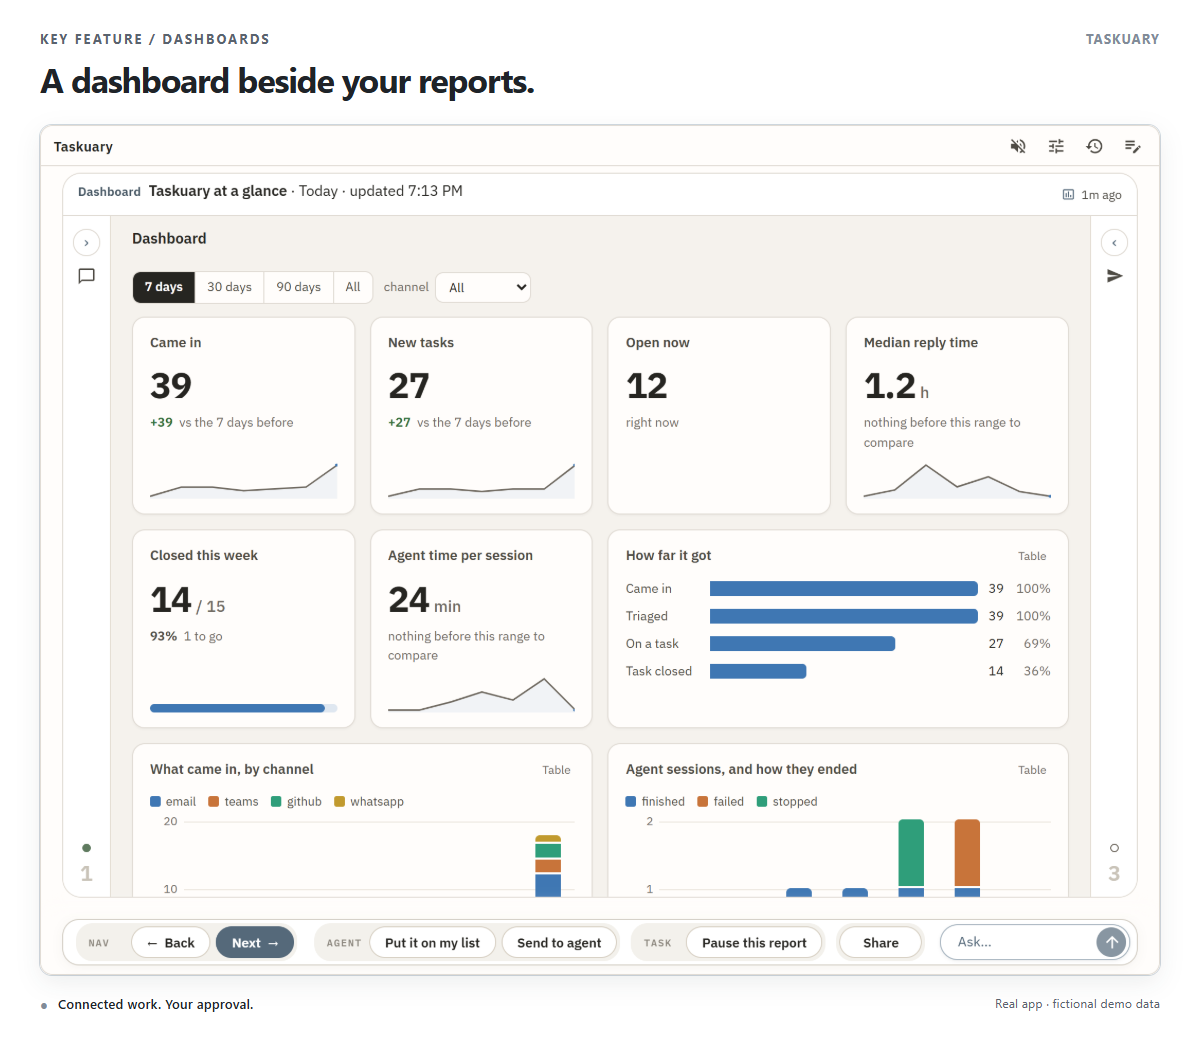
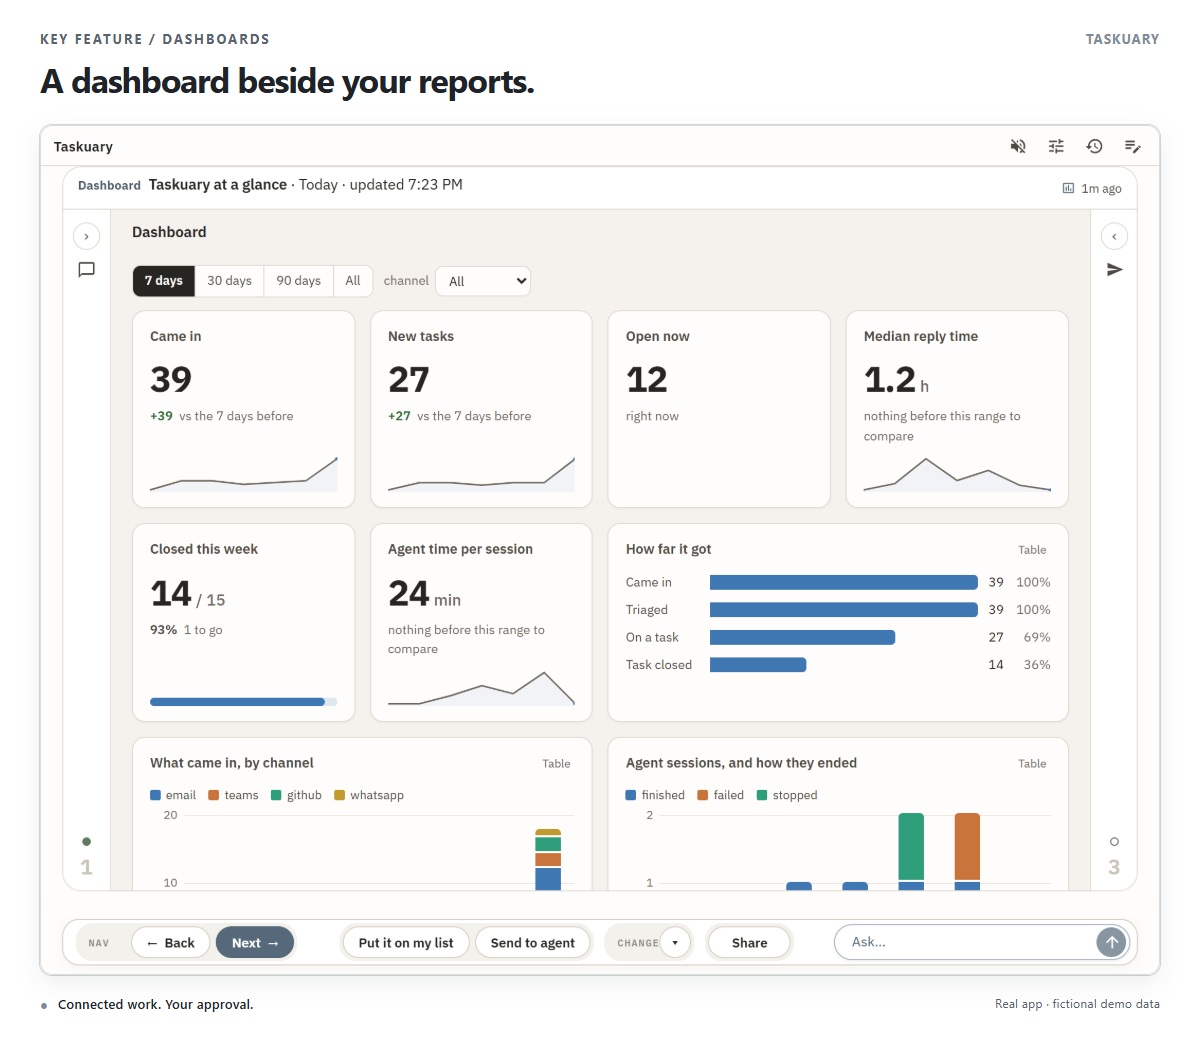
The README's task pictures show the three-pill row and the chat box that stays in the bar
Re-shot on master's new dock row: Nav, one move pill with Mark done first, Change, Share - no REPLY,
AGENT or CLOSE labels - and the chat window rising out of the box at the row's end. 02-05 and 12-14 are
the row; 01, 07 and 11 are re-shot from the same build. Section 2 names the new row in both READMEs, and
every picture's cache-buster moves to ?v=row.

diff --git a/README.md b/README.md
@@ -42,17 +42,18 @@ one card: what changed since last night, what was learned, the morning digest, y
 what waits in each section - so you never open each system in turn. A goal is a task whose steps
 are tasks: triage opens one for an open-ended ask, and files later mail under the step it serves.
 
-![The work rail sorting today's items into Tasks, Reports, and FYI, beside the opening card: agents that finished and a report that ran since last night, the memory and morning digest lines, today's meetings, and what waits in each section.](https://raw.githubusercontent.com/ldbumble/taskuary/master/docs/readme/01-timeline-sources-and-times.png?v=sections)
+![The work rail sorting today's items into Tasks, Reports, and FYI, beside the opening card: agents that finished and a report that ran since last night, the memory and morning digest lines, today's meetings, and what waits in each section.](https://raw.githubusercontent.com/ldbumble/taskuary/master/docs/readme/01-timeline-sources-and-times.png?v=row)
 
 ### 2. Let the Assistant walk you through it
 
 Choose **Walk me through my tasks**. The Assistant puts one item on the table at a time, as the
-same task card you would open yourself, with the next actions in one row under it: **Next**, **Reply**,
-**Hand it to a person**, and the rest under ▾. The buttons always do the same thing; for everything else,
-ask - the chat opens as a window over the row, and the Assistant already has the message, the thread,
-and your past decisions to answer from.
+same task card you would open yourself, with one row under it: **Back** and **Next**, the move it is up
+to (**Mark done** first, then **Reply** or **Send to agent**), **Change ▾**, and **Share**. The buttons always do
+the same thing; for everything else, ask in the chat box at the end of the row - the conversation rises
+out of it as a window, and the Assistant already has the message, the thread, and your past decisions to
+answer from.
 
-![Ruth's request on the table with the chat window open over the action row: asked what is on the list, the Assistant answers beside the task without moving it.](https://raw.githubusercontent.com/ldbumble/taskuary/master/docs/readme/05-assistant.png?v=sections)
+![Ruth's request on the table with the chat window risen out of the chat box at the end of the row: asked what is on the list, the Assistant answers beside the task without moving it.](https://raw.githubusercontent.com/ldbumble/taskuary/master/docs/readme/05-assistant.png?v=row)
 
 Assistant look-ups clamp result limits to a safe range and use their default when a limit is invalid.
 
@@ -62,7 +63,7 @@ Every task reads left to right in three sections: **Came from** (the message, wh
 and why, the ask), **Agent**, and **Close out**. The section the task is up to opens; the other two fold
 to slim columns beside it that still say where they stand.
 
-![Ruth's request as a task in three sections: Came from open - the email, what triage made of it, the ask - with Agent (not started) and Close out (not drafted yet) folded beside it.](https://raw.githubusercontent.com/ldbumble/taskuary/master/docs/readme/02-task.png?v=sections)
+![Ruth's request as a task in three sections: Came from open - the email, what triage made of it, the ask - with Agent (not started) and Close out (not drafted yet) folded beside it.](https://raw.githubusercontent.com/ldbumble/taskuary/master/docs/readme/02-task.png?v=row)
 
 ### 4. The agent shows what it did
 
@@ -71,14 +72,14 @@ Result: what it did, its answer, what it found, and **What it made** - each file
 The whole conversation is one link under it. Here the agent prepares the numbers, checks that the
 categories add up, saves a workbook, and drafts the reply. Nothing is sent.
 
-![The agent's Result on Ruth's task: a one-line summary, the July and August totals by category, what it found, and the workbook it made with Open and Download.](https://raw.githubusercontent.com/ldbumble/taskuary/master/docs/readme/03-agent.png?v=sections)
+![The agent's Result on Ruth's task: a one-line summary, the July and August totals by category, what it found, and the workbook it made with Open and Download.](https://raw.githubusercontent.com/ldbumble/taskuary/master/docs/readme/03-agent.png?v=row)
 
 ### 5. The last word is yours
 
 The prepared reply waits in **Close out**, addressed to Ruth, with Came from and the agent's Result
 folded beside it. Read it, edit it, and choose **Send** when it is ready - or Redraft.
 
-![Close out open on the reply drafted to Ruth, with To, Cc, the editable draft, Send and Redraft, beside the folded Came from and Agent sections.](https://raw.githubusercontent.com/ldbumble/taskuary/master/docs/readme/04-review.png?v=sections)
+![Close out open on the reply drafted to Ruth, with To, Cc, the editable draft, Send and Redraft, beside the folded Came from and Agent sections.](https://raw.githubusercontent.com/ldbumble/taskuary/master/docs/readme/04-review.png?v=row)
 
 ### 6. Start your day before it gets busy
 
@@ -86,7 +87,7 @@ Each morning the Assistant opens on what changed since last night, what it learn
 and what waits in each section - and the morning digest unfolds in place, so it is never stale by the
 time you reach it. Ruth's request has a clear deadline: the 11:30 operations review.
 
-![An animated close-up of the morning: the opening card, then its morning digest unfolding - who wants what, what is in flight, and today's meetings.](https://raw.githubusercontent.com/ldbumble/taskuary/master/docs/readme/06-morning.gif?v=sections)
+![An animated close-up of the morning: the opening card, then its morning digest unfolding - who wants what, what is in flight, and today's meetings.](https://raw.githubusercontent.com/ldbumble/taskuary/master/docs/readme/06-morning.gif?v=row)
 
 ## Key features
 
@@ -97,11 +98,11 @@ its table, the files it attached - with the same row under it. Dashboards land b
 What needs nothing from you is batched: one FYI card holds every message of the batch, each folded to
 who, where, and its line, and **All read, next** moves on.
 
-![A report in a task's three sections: Headcount by site, nightly, with its bar chart, table, and attached files, and the row of actions under it.](https://raw.githubusercontent.com/ldbumble/taskuary/master/docs/readme/13-report.png?v=sections)
+![A report in a task's three sections: Headcount by site, nightly, with its bar chart, table, and attached files, and the row of actions under it.](https://raw.githubusercontent.com/ldbumble/taskuary/master/docs/readme/13-report.png?v=row)
 
-![The Taskuary at a glance dashboard: what came in, new tasks, open now, reply time, how far items got, and agent sessions.](https://raw.githubusercontent.com/ldbumble/taskuary/master/docs/readme/14-dashboard.png?v=sections)
+![The Taskuary at a glance dashboard: what came in, new tasks, open now, reply time, how far items got, and agent sessions.](https://raw.githubusercontent.com/ldbumble/taskuary/master/docs/readme/14-dashboard.png?v=row)
 
-![An FYI batch: six messages that need nothing, each folded to its sender, channel, subject, and first line, with All read, next under them.](https://raw.githubusercontent.com/ldbumble/taskuary/master/docs/readme/12-fyi.png?v=sections)
+![An FYI batch: six messages that need nothing, each folded to its sender, channel, subject, and first line, with All read, next under them.](https://raw.githubusercontent.com/ldbumble/taskuary/master/docs/readme/12-fyi.png?v=row)
 
 ### Use your coding CLI
 
@@ -113,21 +114,21 @@ For Qwen Code, see the [setup and compatibility guide](docs/qwen-code.md).
 Use DeepSeek, GLM, or MiniMax through OpenCode, or connect Moonshot's Kimi Code:
 [setup steps and supported roles](docs/chinese-coding-clis.md).
 
-![AI CLI connections for Claude, Qwen, OpenCode with DeepSeek, and Kimi Code.](https://raw.githubusercontent.com/ldbumble/taskuary/master/docs/readme/07-coding-clis-chinese.png?v=sections)
+![AI CLI connections for Claude, Qwen, OpenCode with DeepSeek, and Kimi Code.](https://raw.githubusercontent.com/ldbumble/taskuary/master/docs/readme/07-coding-clis-chinese.png?v=row)
 
 ### A shared Hub for what agents learn
 
 Keep discoveries, decisions, and useful warnings by topic. Agents can find what earlier work
 uncovered, discuss it, and correct it instead of starting from scratch.
 
-![A discovery in the Hub, with the discussion two agents had under it.](https://raw.githubusercontent.com/ldbumble/taskuary/master/docs/readme/08-hub.png?v=sections)
+![A discovery in the Hub, with the discussion two agents had under it.](https://raw.githubusercontent.com/ldbumble/taskuary/master/docs/readme/08-hub.png?v=row)
 
 ### Agents leave notes for each other
 
 The Board's **Live handoffs** show what agents are working on, what is blocked, and what is ready.
 An agent leaves a note; the next one reads it before picking up the work.
 
-![Live handoff notes on the agent wall, showing progress, shared context, and who has read each note.](https://raw.githubusercontent.com/ldbumble/taskuary/master/docs/readme/09-handoffs.png?v=sections)
+![Live handoff notes on the agent wall, showing progress, shared context, and who has read each note.](https://raw.githubusercontent.com/ldbumble/taskuary/master/docs/readme/09-handoffs.png?v=row)
 
 ### Memory that learns how you work
 
@@ -150,7 +151,7 @@ answer, whether a chase is needed, who on copy moves them - and a thread gone qu
 person's own day is *slipped*, on your rail under Tasks, with Chase, Let it go, They answered elsewhere
 and Remind me under it. See [The Advisor](https://taskuary.com/docs/advisor).
 
-![LEARNED.md open in the document editor, with evidence-backed preferences, hypotheses still being tested, and proposed rules awaiting the owner.](https://raw.githubusercontent.com/ldbumble/taskuary/master/docs/readme/11-learned-memory.png?v=sections)
+![LEARNED.md open in the document editor, with evidence-backed preferences, hypotheses still being tested, and proposed rules awaiting the owner.](https://raw.githubusercontent.com/ldbumble/taskuary/master/docs/readme/11-learned-memory.png?v=row)
 
 <details>
 <summary>Technical details: how LEARNED.md becomes memory</summary>

diff --git a/README.zh-CN.md b/README.zh-CN.md
@@ -44,22 +44,22 @@ Qwen Code 使用哪个云端或本地模型，由你配置。见[使用 Qwen Cod
 **Tasks**（所有未完成的任务，代理正在处理的那一项图标上有旋转的圆环）、**For later**、**Reports**、Advisor 的建议，以及 **FYI**。旁边是一天的开场卡片：昨晚以来的变化、
 学到的东西、早间摘要、今天的会议，以及每个分组里在等你的事，不用逐个打开各个系统。
 
-![工作栏把今天的事项分组，旁边是开场卡片：昨晚以来完成的代理和运行的报表、记忆与早间摘要、今天的会议，以及每个分组里在等你的事。](https://raw.githubusercontent.com/ldbumble/taskuary/master/docs/readme/01-timeline-sources-and-times.png?v=sections)
+![工作栏把今天的事项分组，旁边是开场卡片：昨晚以来完成的代理和运行的报表、记忆与早间摘要、今天的会议，以及每个分组里在等你的事。](https://raw.githubusercontent.com/ldbumble/taskuary/master/docs/readme/01-timeline-sources-and-times.png?v=row)
 
 ### 2. 让助手带你逐项处理
 
 选择 **Walk me through my tasks**。助手每次把一件事带到对话里，形式就是你自己打开时看到的同一张任务卡片，
-下面一行是接下来的操作：**Next**、**Reply**、**Hand it to a person**，其余在 ▾ 里。按钮每次都做同样的事；
-其他需求直接提问，对话会作为一个窗口浮在操作行上方，助手已经掌握这条消息、整个线程以及你过去的决定。
+下面一行是：**Back** 和 **Next**、当前该做的操作（先是 **Mark done**，然后是 **Reply** 或 **Send to agent**）、**Change ▾** 和 **Share**。
+按钮每次都做同样的事；其他需求在这一行末尾的对话框里提问，对话会从对话框升起成一个窗口，助手已经掌握这条消息、整个线程以及你过去的决定。
 
-![Ruth 的请求放在桌面上，对话窗口浮在操作行上方：问到今天的清单，助手在任务旁边回答，任务本身不动。](https://raw.githubusercontent.com/ldbumble/taskuary/master/docs/readme/05-assistant.png?v=sections)
+![Ruth 的请求放在桌面上，对话窗口从操作行末尾的对话框升起：问到今天的清单，助手在任务旁边回答，任务本身不动。](https://raw.githubusercontent.com/ldbumble/taskuary/master/docs/readme/05-assistant.png?v=row)
 
 ### 3. 每个请求都成为带有完整经过的任务
 
 每个任务从左到右分为三部分：**Came from**（原始消息、分诊的结论和原因、要做的事）、**Agent** 和 **Close out**。
 任务进行到哪一部分，就展开哪一部分；另外两部分收成窄栏放在旁边，仍然显示各自的状态。
 
-![Ruth 的请求作为任务分成三部分：展开的 Came from 显示邮件、分诊结论和要做的事，旁边收起的 Agent（尚未开始）和 Close out（尚未起草）。](https://raw.githubusercontent.com/ldbumble/taskuary/master/docs/readme/02-task.png?v=sections)
+![Ruth 的请求作为任务分成三部分：展开的 Came from 显示邮件、分诊结论和要做的事，旁边收起的 Agent（尚未开始）和 Close out（尚未起草）。](https://raw.githubusercontent.com/ldbumble/taskuary/master/docs/readme/02-task.png?v=row)
 
 ### 4. 智能体展示它做了什么
 
@@ -67,20 +67,20 @@ Qwen Code 使用哪个云端或本地模型，由你配置。见[使用 Qwen Cod
 发现了什么，以及 **What it made**——每个文件都可以打开或下载，完整对话只是下面的一个链接。这里的智能体整理支出数据、
 核对分类合计、保存一个工作簿，并准备回复草稿。任何内容都不会自动发出。
 
-![智能体在 Ruth 的任务上的结果：一句话总结、七月和八月按分类的合计、它的发现，以及可以打开和下载的工作簿。](https://raw.githubusercontent.com/ldbumble/taskuary/master/docs/readme/03-agent.png?v=sections)
+![智能体在 Ruth 的任务上的结果：一句话总结、七月和八月按分类的合计、它的发现，以及可以打开和下载的工作簿。](https://raw.githubusercontent.com/ldbumble/taskuary/master/docs/readme/03-agent.png?v=row)
 
 ### 5. 最后由你决定
 
 准备好的回复放在 **Close out** 里，收件人是 Ruth，旁边收起的是 Came from 和智能体的结果。阅读、修改，确认无误后点击 **Send**，或者 Redraft。
 
-![Close out 展开在给 Ruth 的回复草稿上：收件人、抄送、可编辑的草稿、Send 和 Redraft，旁边是收起的 Came from 和 Agent。](https://raw.githubusercontent.com/ldbumble/taskuary/master/docs/readme/04-review.png?v=sections)
+![Close out 展开在给 Ruth 的回复草稿上：收件人、抄送、可编辑的草稿、Send 和 Redraft，旁边是收起的 Came from 和 Agent。](https://raw.githubusercontent.com/ldbumble/taskuary/master/docs/readme/04-review.png?v=row)
 
 ### 6. 在忙起来之前开始一天
 
 每天早上，助手先说明昨晚以来的变化、学到的东西、今天的会议，以及每个分组里在等你的事；早间摘要直接在卡片里展开，
 看到时不会过时。Ruth 的请求有明确的期限：11:30 的运营会议。
 
-![早间画面的动画特写：开场卡片，以及在卡片里展开的早间摘要。](https://raw.githubusercontent.com/ldbumble/taskuary/master/docs/readme/06-morning.gif?v=sections)
+![早间画面的动画特写：开场卡片，以及在卡片里展开的早间摘要。](https://raw.githubusercontent.com/ldbumble/taskuary/master/docs/readme/06-morning.gif?v=row)
 
 ## 核心功能
 
@@ -89,11 +89,11 @@ Qwen Code 使用哪个云端或本地模型，由你配置。见[使用 Qwen Cod
 报表和任务一样分成三部分打开，中间是报表本身——图表、表格和附件——下面是同一行操作。仪表板就放在报表旁边。
 不需要你处理的消息会成批出现：一张 FYI 卡片装下整批消息，每条收成发件人、渠道和一行内容，点击 **All read, next** 继续。
 
-![按任务三部分打开的报表：每晚各站点人数，含柱状图、表格和附件，下面是操作行。](https://raw.githubusercontent.com/ldbumble/taskuary/master/docs/readme/13-report.png?v=sections)
+![按任务三部分打开的报表：每晚各站点人数，含柱状图、表格和附件，下面是操作行。](https://raw.githubusercontent.com/ldbumble/taskuary/master/docs/readme/13-report.png?v=row)
 
-![Taskuary at a glance 仪表板：收到多少、新任务、当前未完成、回复时间、事项进展和智能体会话。](https://raw.githubusercontent.com/ldbumble/taskuary/master/docs/readme/14-dashboard.png?v=sections)
+![Taskuary at a glance 仪表板：收到多少、新任务、当前未完成、回复时间、事项进展和智能体会话。](https://raw.githubusercontent.com/ldbumble/taskuary/master/docs/readme/14-dashboard.png?v=row)
 
-![一批 FYI：六条不需要处理的消息，每条收成发件人、渠道、主题和第一行，下面是 All read, next。](https://raw.githubusercontent.com/ldbumble/taskuary/master/docs/readme/12-fyi.png?v=sections)
+![一批 FYI：六条不需要处理的消息，每条收成发件人、渠道、主题和第一行，下面是 All read, next。](https://raw.githubusercontent.com/ldbumble/taskuary/master/docs/readme/12-fyi.png?v=row)
 
 ### 使用你选择的编程 CLI
 
@@ -106,21 +106,21 @@ Qwen Code 使用哪个云端或本地模型，由你配置。见[使用 Qwen Cod
 这两个预设用于执行任务；消息分拣和只读报告请选择 Qwen Code、Ollama 或 API 服务。
 详见[安装步骤和验证范围（英文）](docs/chinese-coding-clis.md)。
 
-![Claude、Qwen、OpenCode（支持 DeepSeek）和 Kimi Code 的连接卡片。](https://raw.githubusercontent.com/ldbumble/taskuary/master/docs/readme/07-coding-clis-chinese.png?v=sections)
+![Claude、Qwen、OpenCode（支持 DeepSeek）和 Kimi Code 的连接卡片。](https://raw.githubusercontent.com/ldbumble/taskuary/master/docs/readme/07-coding-clis-chinese.png?v=row)
 
 ### 用 Hub 保留共享知识
 
 按主题保存发现、决定和有用的提醒。智能体可以查阅前面的工作、补充讨论，
 也可以根据新证据纠正结论，减少重复摸索。
 
-![Hub 中按主题组织的共享发现，以及智能体之间的讨论。](https://raw.githubusercontent.com/ldbumble/taskuary/master/docs/readme/08-hub.png?v=sections)
+![Hub 中按主题组织的共享发现，以及智能体之间的讨论。](https://raw.githubusercontent.com/ldbumble/taskuary/master/docs/readme/08-hub.png?v=row)
 
 ### 智能体之间可以交接留言
 
 Board 的 **Live handoffs** 展示当前进展、阻碍和待接手事项。
 一个智能体留下说明，下一个接手时就能读到上下文；已读标记显示谁看过这条留言。
 
-![智能体的交接留言，包括进展、共享上下文和已读标记。](https://raw.githubusercontent.com/ldbumble/taskuary/master/docs/readme/09-handoffs.png?v=sections)
+![智能体的交接留言，包括进展、共享上下文和已读标记。](https://raw.githubusercontent.com/ldbumble/taskuary/master/docs/readme/09-handoffs.png?v=row)
 
 ### 从你的决定中学习
 
@@ -131,7 +131,7 @@ Board 的 **Live handoffs** 展示当前进展、阻碍和待接手事项。
 打开 **Docs → LEARNED.md**，可以阅读、修改或删除这些记忆。
 你在 `SOUL.md` 中写下的指令始终优先。
 
-![LEARNED.md 编辑器中可查看和修改的偏好、证据、待验证假设和待批准规则。](https://raw.githubusercontent.com/ldbumble/taskuary/master/docs/readme/11-learned-memory.png?v=sections)
+![LEARNED.md 编辑器中可查看和修改的偏好、证据、待验证假设和待批准规则。](https://raw.githubusercontent.com/ldbumble/taskuary/master/docs/readme/11-learned-memory.png?v=row)
 
 <details>
 <summary>技术细节：LEARNED.md 如何形成记忆</summary>
